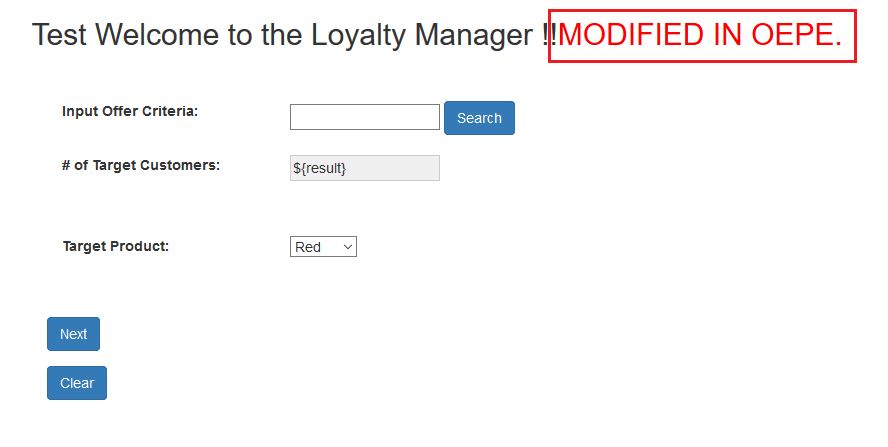
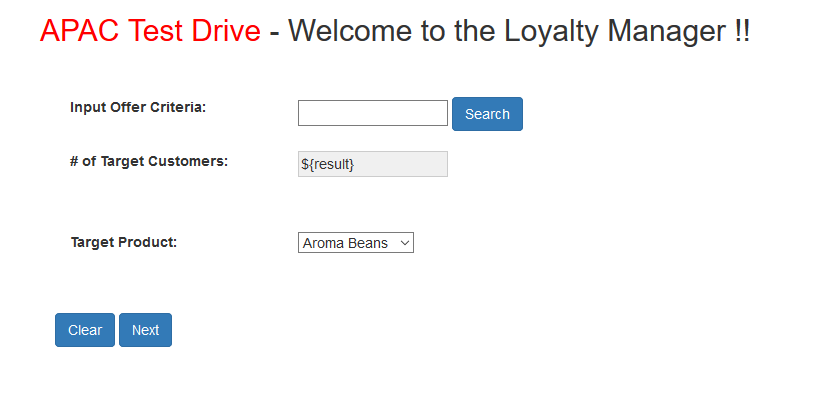
Updated with brackets

diff --git a/Java Apps/103-JavaAppsLab.md b/Java Apps/103-JavaAppsLab.md
@@ -1,127 +1,103 @@
 # ORACLE Cloud Test Drive #
 -----
-## 103: Continuous Integration & Delivery (CICD): Using Eclipse IDE, Commit and Push Code Change to Oracle Developer Cloud Service ##
+## 103: Continuous Integration & Delivery (CICD): Using Brackets, Commit and Push Code Change to Oracle Developer Cloud Service ##
 
 ### Introduction ###
-You can access Oracle Developer Cloud Service projects from Integrated Development Environments (IDEs) such as Oracle Enterprise Pack for Eclipse (OEPE), Oracle JDeveloper, and NetBeans IDE. The Eclipse IDE and the Oracle Enterprise Pack for Eclipse (OEPE) includes integration for Oracle Developer Cloud Service, which conveniently exposes the most common Cloud development tasks from within the IDE. Oracle Developer Cloud Service integration with the IDE includes the following:
-+ A dedicated Oracle Cloud view that displays Oracle Developer Cloud Service projects of which you are a member
-+ Integration with Oracle Developer Cloud Service and the Mylyn Issues system
-+ Source control system integration with the Oracle Developer Cloud Service Git repository
+You can access Oracle Developer Cloud Service projects from Integrated Development Environments (IDEs) or text editors such as Brackets, Oracle Enterprise Pack for Eclipse (OEPE), Oracle JDeveloper, and NetBeans IDE. The Brackets can connect and exchange with Oracle Developer Cloud Service, which conveniently exposes the most common cloud development tasks from within the editor. 
 
 This tutorial demonstrates how to:
-- Perform a simple continuous integration and delivery using Oracle Developer Cloud Service with Eclipse IDE 
+- Perform a simple continuous integration and delivery using Oracle Developer Cloud Service with Brackets
 
 ### About the Exercise Today ###
 In this exercise, we will:
-- Connect Oracle Developer Cloud Service from Elipse IDE, checkout and update project source code
-- Commit and push updated source code from Eclipse IDE back to Developer Cloud Service
+- Connect Oracle Developer Cloud Service from Brackets, checkout and update project source code
+- Commit and push updated source code from Brackets back to Developer Cloud Service
 - Review the continuous integration and delivery result made by Developer Cloud Service
 
 ### Prerequisites ###
 + [Create Oracle Developer Cloud Service project for Loyalty Management JEE application and deployed to Java Cloud Service WebLogic Server Container](102-JavaAppsLab.md)
-+ Installed VirtulBox, Copied VM image from instructor and started the VM. [virtualbox.md]
-
-**Using VirtualBox**  
-Instructor should have provided you VirtualBox Installer and the Virtual Machine image (or your can download the VM image [HERE](https://drive.google.com/drive/folders/0B0MXC4qaECO6RHBWMEttdW9fOVk)) which consists of Linux and Eclipse IDE pre-installed. [Click Here for VirtualBox detail](virtualbox.md)  
-
-Alternatively, you can conduct the following lab exercise using the Oracle Enterprise Pack for Eclipse IDE (OEPE) running on your OS directly.  
-You can download OEPE from [http://www.oracle.com/technetwork/developer-tools/eclipse/downloads/index.html](http://www.oracle.com/technetwork/developer-tools/eclipse/downloads/index.html).  
-Notice the Oracle Enterprise Pack for Eclipse supported Eclipse Mars and Neon release only.  
-If you are using your own Eclipse IDE [http://www.eclipse.org/](http://www.eclipse.org/), download and install the Oracle Cloud Tools plugin from the Eclipse IDE marketplace. In OEPE, the plugin is installed by default.  
-\*Installation of the Eclipse IDE and Oracle Enterprise Pack are not included as part of lab exercise here. If you are interested, feel free to reach out instructor for more information.  
-\*\*Recommend to use VirtualBox which saves your time.
++ Installed Brackets and Git extension. [brackets.md]
 
 ----
 
 #### Connect and Obtain Source Code from Developer Cloud Service ####
 
-1. From your Virtual Machine (or your own OS), open OEPE (using desktop icon ![](images/103/01.png)) and set (leave the default, `home/oracle/workspace`) workspace location. Close the Welcome page. To open the *Oracle Cloud* view from the Window menu, click *Show View* and then *Other*.
+1. Start the Brackets Text Editor, in the `File` pull-down menu, choose `Open Folder`.
 
-![](images/103/02.png)
+![](images/103/02.openfolder.png)
 
-2. From the list open *Oracle Cloud* and select *Oracle Cloud*.
+2. Navigate to select target destination directory to store JEE source code, for example: `D:\oracle`
+   Create a `New Folder`, then name the new folder as `LoyaltyManagement`.  
+   Keep the `LoyaltyManagement` folder selected and click `Select Folder` button at bottom.
 
-![](images/103/03.png)
+![](images/103/03.selectfolder.png)
 
-3. If you are connecting to Oracle Developer Cloud Service for the first time, click the Connect link.
+3. Back in Developer Cloud Service dashboard, in your **LoyaltyManagement** Git Repository. Click HTTP to display the Git HTTP URL, click the square `Copy` button on the right to copy the URL.
 
-![](images/103/04.png)
+![](images/103/04.devcs.git.png)
 
-4. In the Oracle Cloud Service Connection dialog, enter the following:
-+ **Identity Domain**: Enter the identity domain of Oracle Developer Cloud Service.
-+ **Username** and **Password**: Enter the user name and password.
-+ **Connection Name**: Enter a name for the service instance, if necessary. By default, the connection name is set to the identity domain name.
+4. Back in the Bracket editor, click on GIT icon on the right hand side of the editor.
 
-![](images/103/05.png)
+![](images/103/05.brackets.git.png)
 
-5. Provide a master password to store securely your credentials, so in the future you don't need to enter every time when you open OEPE. Don't forget to note the master password.
+5. In the Git panel, click `Clone`.
 
-![](images/103/06.png)
+![](images/103/06.brackets.clone.png)
 
-6. After your credentials have been validated, you are logged in to Oracle Developer Cloud Service and the Oracle Cloud view displays all projects that are assigned to you. Open the tree view myOracle Cloud (Or Your Cloud connection name) -> Developer -> LoyaltyManagement(DevCS project name) -> Code and there you can see the Git repository hosted on Oracle Developer Cloud Service.
+6. Paste the GIT URL that you copied from Developer Cloud Service. Username should be populated automatically. Enter the password and select `Save credentials to remote url`.  
+Click `OK` button at the bottom.
 
-![](images/103/07.png)
+![](images/103/07.brackets.clone1.png)
 
-7. To clone the Git repository to your machine double click or right click on the **Git repo [LoyaltyManagement.git]** -> Activate on the Git repository and clone will start.
+7. Wait for Brackets to clone your remote project to local folder.
 
-![](images/103/08.png)
+![](images/103/08.brackets.clone2.png)
 
-8. After the successful clone your local copy will be available in your workspace.
+8. You now have a local copy of the Git Repository.
 
-![](images/103/09.png)
+![](images/103/09.brackets.clone3.png)
 
-9. To import a Maven based project right click on the Project Exporer area and will pop up the menu where you can select Import projects -> Import...
+#### Commit and Push Code Changes ####
 
-![](images/103/10.png)
+9. Expand the left nagivation tree and open `welcome.jsp` file (Under loyalty->src->main->webapp->jsp).  
+On the main window, locate line 73 of welcome.jsp source code.
 
-10. Select Existing Maven Projects and click Next.
-
-![](images/103/11.png)
-
-11. Browse the location of the cloned repository in `/home/oracle/workspace/` folder and enter/select `LoyaltyManagement.git-\*xxxx/loyalty` (\*where xxxx is random string) subfolder. If the workspace location is the default it should look like similar to the following: `/home/oracle/workspace/LoyaltyManagement-xxxx/loyalty`
-Please note, that you need to give one of the subfolder of the local repository.
-Click Finish.
-
-![](images/103/12.png)
-
-12. OEPE now starts to validate and build the project which can take few seconds. Finally you can see the imported project in the Project Explorer area.
-*Ignore any error or warning from now as we are not going to build and test in the VM locally.
-
-![](images/103/13.png)
-
-#### Change code and Stage Changes ####
-
-13. The project hosted on Oracle Developer Cloud Service has build job which ensures that new application build and deployment to Java Cloud Service happens when any developer push code changes to Git repository.
-
-In the Project Explorer area find the *loyalty* project and expand the navigation tree to locate and open the **src -> main -> webapp -> jsp -> welcome.jsp**
-
-![](images/103/14a.png)
-![](images/103/14b.png)
+![](images/103/10.brackets.change.png)
 
 14. Modify the following part:
 
   	<h2>Welcome to the Loyalty Manager !!</h2>
-	
-![](images/103/15.png)
 
 To what you would like to see on the page. For example:
 
-	<h2>Test Welcome to the Loyalty Manager !!<font color="red">MODIFIED IN OEPE.</font></h2>
+	<h2><font color="red">APAC Test Drive</font> - Welcome to the Loyalty Manager !!</h2>
 
-![](images/103/16.png)
+![](images/103/11.brackets.change1.png)
 
-15. Save the changes. To commit and push changes to Git right click on project and select Team -> Commit...
+15. Save the file. (Press `Ctrl-S` or choose from pull-down menu `File` > `Save`)
 
-![](images/103/17.png)
+![](images/103/12.brackets.save.png)
 
-16. Git Staging view is displayed. First make sure the `welcome.jsp` is in the *Staged Changes* area (i.e. Drag the file `welcome.jsp` from `Unstaged Changes` to `Staged Changes`). Type a commit message e.g. 'Updated welcome.jsp'. Optionally enter your name or cloud username and give a (valid or fake) email address in the following format as the screenshot shows. Click **Commit and Push...**
+16. Check the box next to Commit to select all modified files - this means the checkbox below (welcome.jsp) will automatically be checked.  
+Click `Commit` button.
 
-![](images/103/18.png)
-![](images/103/19.png)
+![](images/103/13.brackets.commit.png)
 
-17. In the Push dialog leave the default branch and click OK.
+17. In the pop-up enter the comment: `Changed header` and then click `OK` button. This will commit the changes to your LOCAL GIT REPOSITORY.
 
-![](images/103/20.png)
+![](images/103/14.brackets.commit1.png)
+
+18. Click `Git Push` icon.
+
+![](images/103/15.brackets.commit2.png)
+
+19. In the pop-up window, leave all defaults and click `OK` button at the bottom.
+
+![](images/103/15.brackets.commit3.png)
+
+20. Once Git Push completes, click `OK` button.
+
+![](images/103/16.brackets.done.png)
 
 #### Continuous Integration & Delivery (CICD) ####
 

diff --git a/Java Apps/README.md b/Java Apps/README.md
@@ -38,14 +38,14 @@ The key features of Oracle Developer Cloud Service include:
 + Repository branch merge after code review
 + Deployment to Oracle Java Cloud Service - SaaS Extension, Oracle Java Cloud Service, and Oracle Application Container Cloud Service
 
-Oracle Developer Cloud Service is available as a web interface accessible from a web browser and from Integrated Development Environments (IDEs) such as Oracle Enterprise Pack for Eclipse (OEPE), Oracle JDeveloper, and NetBeans IDE.  
+Oracle Developer Cloud Service is available as a web interface accessible from a web browser and from Integrated Development Environments (IDEs) such as Brackets, Oracle Enterprise Pack for Eclipse (OEPE), Oracle JDeveloper, and NetBeans IDE.  
 DevCS is comprised of various components including Git, Hudson, Maven, browser-based IDE, issue tracker, wiki, snippets, and code review.  
 All components are available in a project, which is a collection of features and services provided by Oracle Developer Cloud Service.
 
 ### This tutorial demonstrates how to: ###
 - Create Oracle Developer Cloud Service (DevCS) Loyalty Management Application Project using Initial [GitHub](https://github.com) repository
 - Define Continuous Integration 'Build' and 'Deploy' Configuration in Oracle Developer Cloud Service 
-- Continuous Integration & Delivery (CICD): Using Eclipse IDE, Commit and Push Code Change to Oracle Developer Cloud Service
+- Continuous Integration & Delivery (CICD): Using Brackets, Commit and Push Code Change to Oracle Developer Cloud Service
 
 ### Prerequisites ###
 
@@ -63,7 +63,7 @@ All components are available in a project, which is a collection of features and
 
 [Click Here.](102-JavaAppsLab.md)
 
-## 103: Continuous Integration & Delivery (CICD): Using Eclipse IDE, Commit and Push Code Change to Oracle Developer Cloud Service ##
+## 103: Continuous Integration & Delivery (CICD): Using Brackets, Commit and Push Code Change to Oracle Developer Cloud Service ##
 
 [Click Here.](103-JavaAppsLab.md)
 
